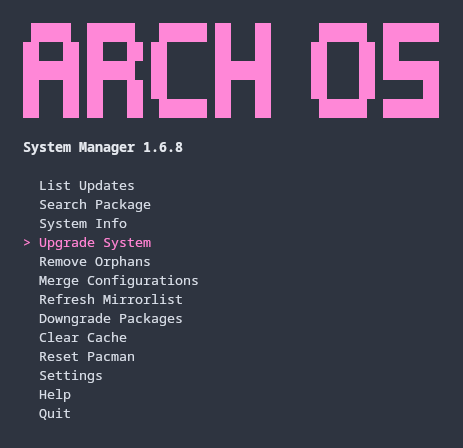
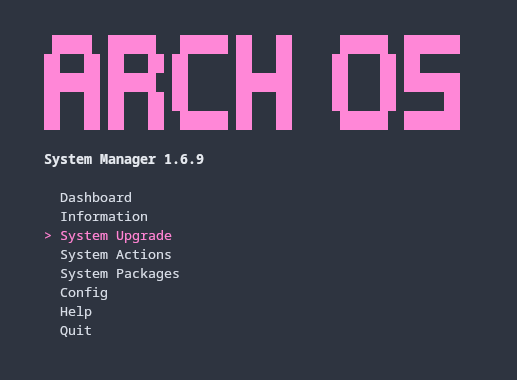
screenshots

Changed region(s): [[0.0302, 0.0289, 0.6048, 0.3474], [0.0302, 0.4053, 0.4233, 0.9553], [0.635, 0.0289, 0.9676, 0.3474]]

diff --git a/docs/README.md b/docs/README.md
@@ -193,8 +193,8 @@ dconf write /org/gnome/shell/extensions/arch-update/package-manager "'arch-os --
 
 <p><img src="./screenshots/notification.png"></p>
 <p><img src="./screenshots/upgrade.png"></p>
-<p><img src="./screenshots/info.png"></p>
-<p><img src="./screenshots/search.png"></p>
+<p><img src="./screenshots/dashboard.png"></p>
+<p><img src="./screenshots/pkg.png"></p>
 <p><img src="./screenshots/refresh.png"></p>
 <p><img src="./screenshots/uptodate.png"></p>
 
